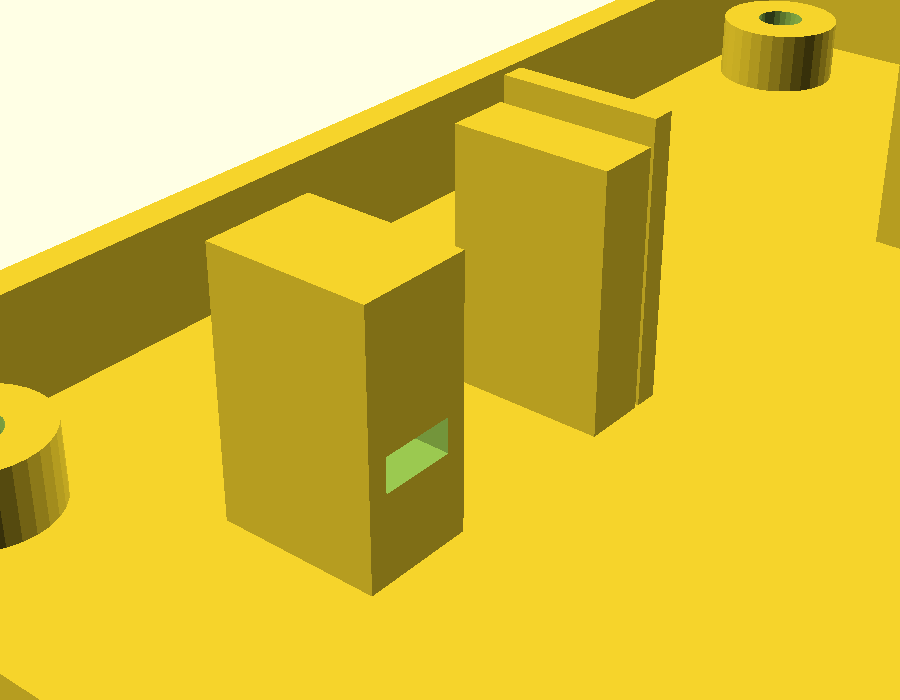
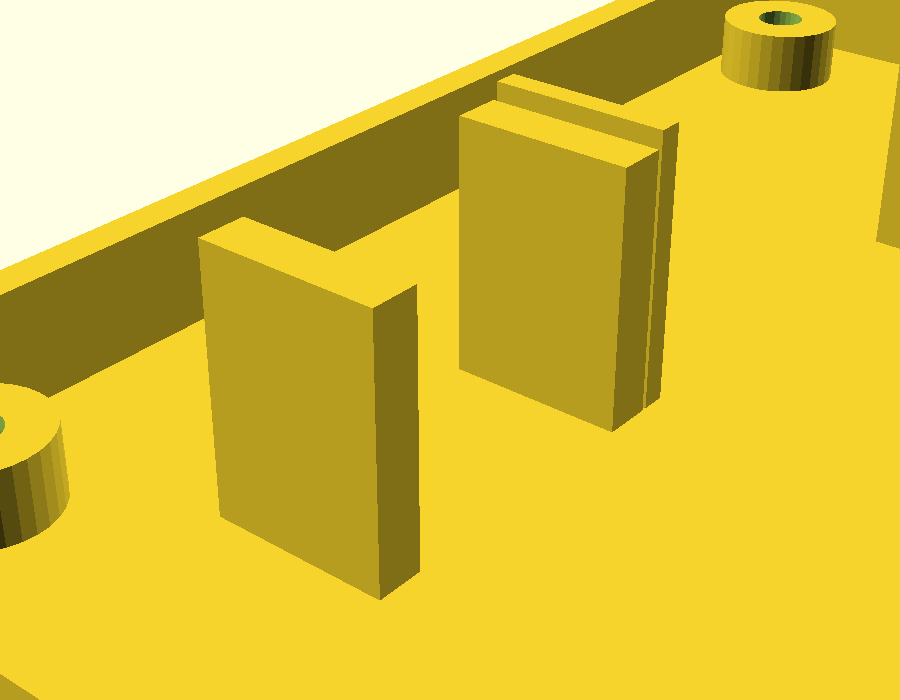
Tacka elektroniki: ESP32-C3 klejony na 2 słupkach 16 mm (góra 11 × 3 pod klej, rant 1 z tyłu), bez opaski
Poprawka elektroniki na wniosek użytkownika. Siatka OK, kolizje: pusto.

Changed region(s): [[0.4044, 0.09, 0.7778, 0.87], [0.2178, 0.33, 0.2489, 0.75], [0.2489, 0.27, 0.4356, 0.36]]

diff --git a/20-analizy/2026-10-25-podstawka-model.md b/20-analizy/2026-10-25-podstawka-model.md
@@ -330,3 +330,4 @@ Kontrole: siatka OK, kolizje szufladki z tacką: pusto. Wymiary płytek i gniazd
 - **Rezystor (doprecyzowanie elektroniki 26.10):** 47 Ω / 3 W, korpus Ø6 × 17, nóżki osiowe, nagrzewa się do 55–60 °C, więc nie może dotykać PLA. Uchwyty z opaskami zastąpiłem 2 słupkami 5 × 5 × 13,5 w rozstawie 25 (x 32, y 68 i 93). W każdym słupku jest poziomy otwór Ø1,4 (łza) na nóżkę, oś 11 nad dnem: korpus 8 nad dnem, 1,5 od słupków, 8 od tylnego pasa, 26 od PCA9685. Końce nóżek wychodzą na zewnątrz słupków pod przewody do zacisku V+/GND. Siatka i kolizje: OK.
 - **Lista końcowa elektroniki (26.10):** dodane miejsce zapasowe na małą płytkę 20 × 30 (2 słupki Ø6 × 5 z otworami M3 Ø2,6 w rozstawie 25; x 45–65, y 64–94 – mieści się między rezystorem a PCA9685 bez przesuwania reszty) i uchwyt opaski na przewody gniazda USB-C w drodze do zacisku (x 140, y 88). Wyłącznik i przycisk idą w drewnianą ściankę – nie na tackę. Siatka i kolizje: OK.
 - **ESP32-C3 z pinami w dół (elektronika 26.10, zdjęcie użytkownika: piny przylutowane w dół, wtyki Dupont od spodu):** płaską ramkę v1 zastąpiłem podstawką z 2 podpórek 10 × 16 wys. pod krótkimi krawędziami płytki. Podpórki stoją na środku, między rzędami pinów (rozstaw rzędów 15,2), więc Duponty 14 mm mieszczą się pod płytką, a przewody wychodzą w bok. Przednia podpórka (pod USB, głęb. 7) ma tunel 4,6 × 2,1 na opaskę w poprzek płytki za gniazdem USB, z dala od anteny. Tylna podpórka (głęb. 4) ma ramkę 1,5 nad płytką, więc płytka nie zjedzie do tyłu. USB-C zostaje do przodu i jest dostępne. Płytka 18,4 nad dnem tacki, do płyty zostaje ok. 20 mm. Siatka i kolizje: OK.
+- **ESP32-C3 klejony (poprawka elektroniki 26.10 na wniosek użytkownika: brak płytki stykowej, ESP przyklejony):** zamiast podpórek z opaską są 2 słupki 16 wys. z płaską górą 11 × 3 pod klej (termiczny albo CA), pod krótkimi krawędziami. Z tyłu (koniec z anteną) niski rant 1 jako ogranicznik przy klejeniu. Bez opaski i ramki. Elektronika podała górę słupka 18 × 3. Dałem 11 szer., bo przy 18 w słupek weszłyby wtyki Dupont narożnych pinów: pierwszy pin ok. 2,4 od krótkiej krawędzi, obudowa Duponta 2,54, rzędy w rozstawie 15,2. Siatka i kolizje: OK.
